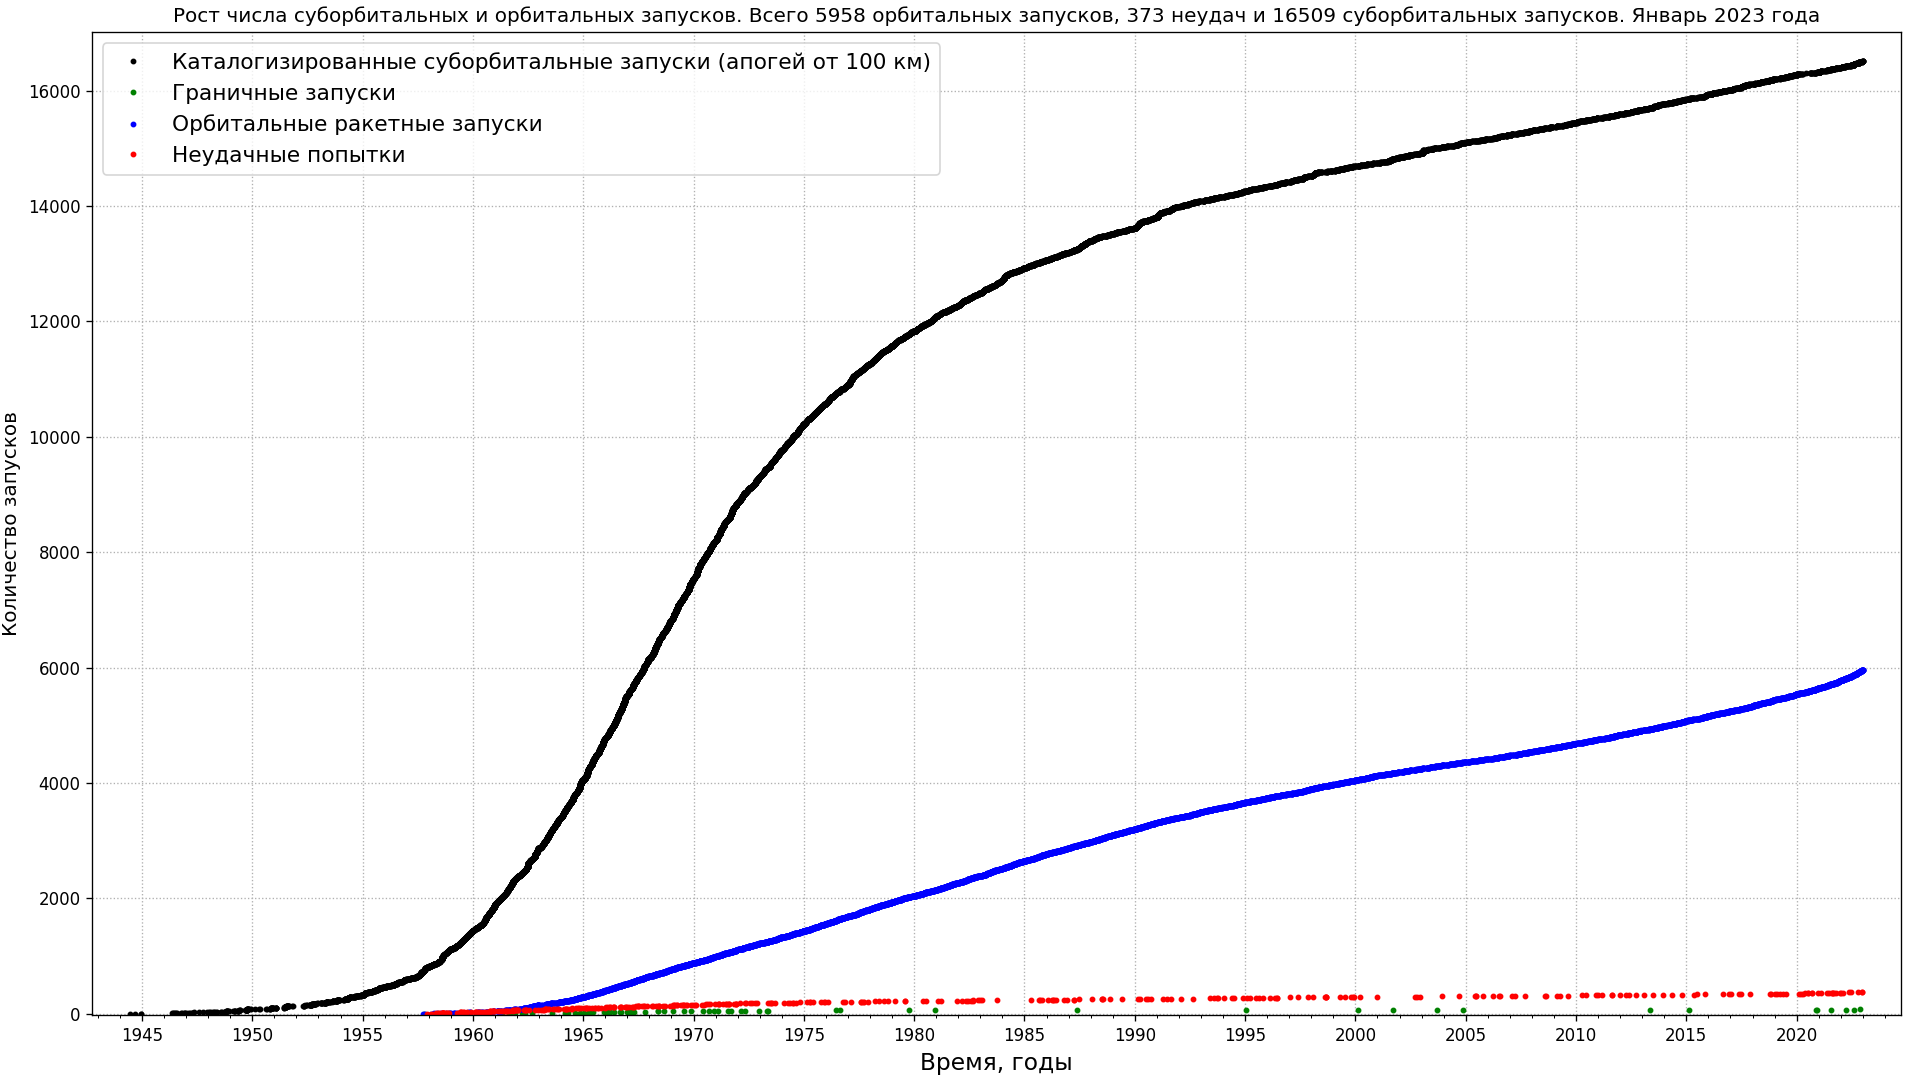
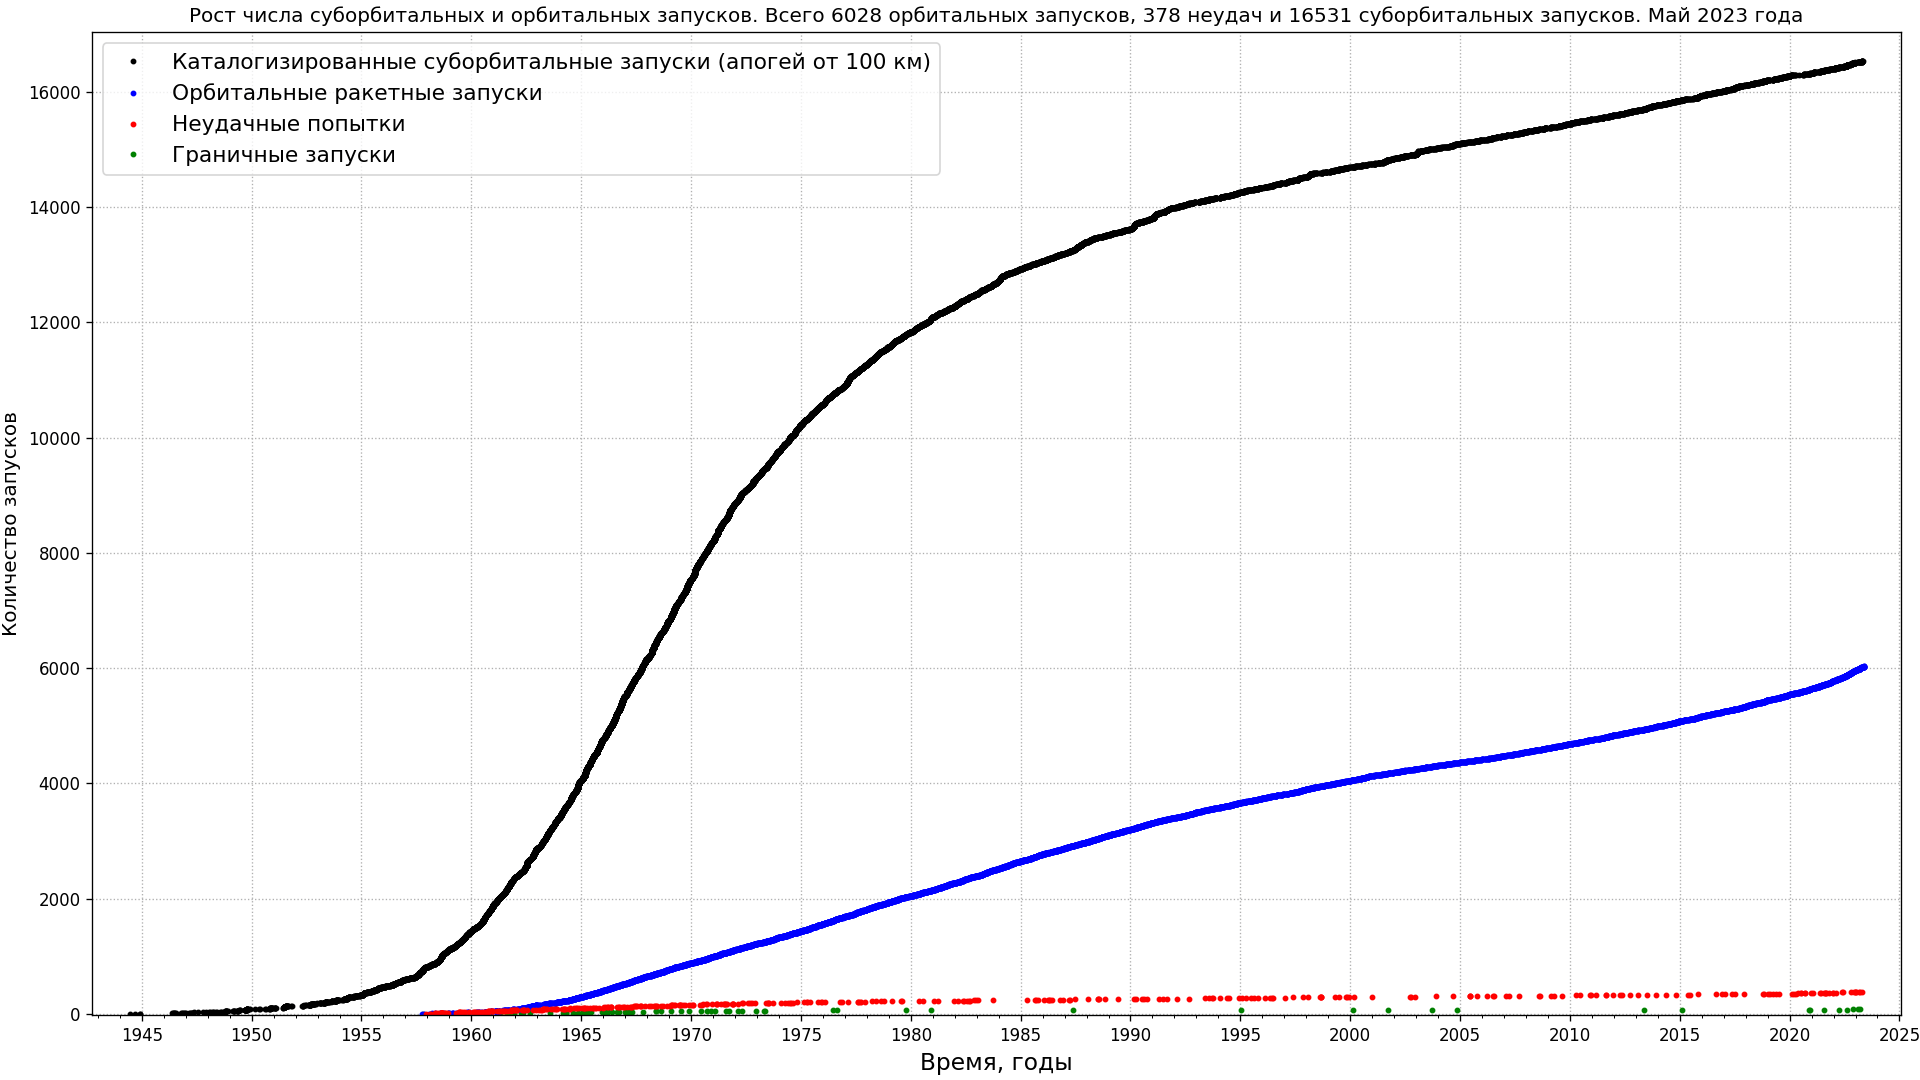
updated script and rocket launches plots

diff --git a/src/astrodata/launches/plot_launches_orb_suborb_graph.py b/src/astrodata/launches/plot_launches_orb_suborb_graph.py
@@ -89,19 +89,22 @@ DATA_URL = BASE_URL + "O.html"
 data = get_table(DATA_URL)[1:]
 dates, nums = get_data_array(data)
 print("Orbital launches:", len(dates))
-
 DATA_URL = BASE_URL + "F.html"
 data = get_table(DATA_URL)[1:]
 dates_fail, nums_fail = get_data_array(data)
 print("Launches failed:", len(dates_fail))
-
 DATA_URL = BASE_URL + "U.html"
 data = get_table(DATA_URL)[1:]
 dates_marg, nums_marg = get_data_array(data)
 print("Marginal launches:", len(dates_marg))
 
-SUBORB = True
+SUBORB = False
+DEEP = True
+
 if SUBORB:
+    FILE_EXT = 'png'
+    MS = 5
+    L_ORDER = [3, 1, 2, 0]
     SUBORB_POSTFIX = "-suborb-100km"
     DATA_URL = BASE_URL + "S.html" # DATA_URL = "S.html"
     suborb_data = get_table(DATA_URL, local=False)[1:] # local=True
@@ -131,14 +134,16 @@ if SUBORB:
     print(f"No apogee altitude data for {no_altitude} entries, {qm} questioned")
     print("Suborbital launches:", len(so_dates))
 
-DEEP = True
 if DEEP:
+    FILE_EXT = 'svg'
+    MS = 3
+    L_ORDER = [1, 2, 3, 0]
+    DEEP_POSTFIX = "-deep"
     DATA_URL = "https://planet4589.org/space/gcat/data/cat/deepcat.html"
     datt = get_table(DATA_URL)[1:]
     dates_deep = get_data_array_deep(datt)
     dates_only, names, nums_only = [], [], []
     unique_dtes = {}
-    # DEEP_POSTFIX = "-deep"
 
     for data, name, satnum in dates_deep:
         if data not in unique_dtes:
@@ -152,8 +157,8 @@ if DEEP:
     SAVE_LIST = False
     if SAVE_LIST:
         with open('deepcat.txt', 'w', encoding='utf-8') as f:
-            for dat in unique_dtes:
-                print(str(dat.date()), unique_dtes[dat], file=f)
+            for dat, space_objects_lst in unique_dtes.items():
+                print(str(dat.date()), space_objects_lst, file=f)
 
     dates_deep = list(unique_dtes.keys())
     nums_deep = range(1, len(dates_deep) + 1)
@@ -166,38 +171,35 @@ years = mdates.YearLocator(5)
 oneyear = mdates.YearLocator()
 ax.xaxis.set_major_locator(years)
 ax.xaxis.set_minor_locator(oneyear)
-
-if SUBORB:
-    plt.plot(so_dates, so_nums, '.k',
-    label='Каталогизированные суборбитальные запуски (апогей от 100 км)', ms=5)
-plt.plot(dates_marg, nums_marg, '.g', label='Граничные запуски', ms=5) #ms=5
-# plt.plot(dates_deep, nums_deep, '.k', label='Запуски в глубокий космос', ms=5)
-plt.plot(dates, nums, '.b', label='Орбитальные ракетные запуски', ms=5) #ms=5
-plt.plot(dates_fail, nums_fail, '.r', label='Неудачные попытки', ms=5) #ms=5
-
 tdlt = timedelta(days=630)
 locale.setlocale(locale.LC_ALL, 'ru_RU')
 today = datetime.now()
 MONTH, YEAR = today.strftime("%B"), today.year
 
+plt.plot(dates_marg, nums_marg, '.g', label='Граничные запуски', ms=MS) #ms=2
+plt.plot(dates, nums, '.b', label='Орбитальные ракетные запуски', ms=MS)
+plt.plot(dates_fail, nums_fail, '.r', label='Неудачные попытки', ms=MS)
 if SUBORB:
+    plt.plot(so_dates, so_nums, '.k',
+    label='Каталогизированные суборбитальные запуски (апогей от 100 км)', ms=5)
     plt.xlim(so_dates[0]-tdlt, so_dates[-1]+tdlt)
     plt.ylim(-25, so_nums[-1]+500)
-else:
+    plt.title(f'Рост числа суборбитальных и орбитальных запусков. Всего {len(dates)} ' + \
+    f'орбитальных запусков, {len(nums_fail)} неудач и {len(so_nums)} суборбитальных запусков. {MONTH} {YEAR} года')
+if DEEP:
+    plt.plot(dates_deep, nums_deep, '.k', label='Запуски в глубокий космос', ms=6)
     plt.xlim(dates[0]-tdlt, dates[-1]+tdlt) #+5*tdlt
     plt.ylim(-5, nums_deep[-1]+190)
-plt.legend(fontsize=13)
+    plt.title(f'Рост числа запусков в глубокий космос. Всего {len(dates)} ' + \
+    f'орбитальных запусков, {len(nums_fail)} неудач, {len(nums_deep)} запусков в глубокий космос. {MONTH} {YEAR} года')
 
-plt.title(f'Рост числа запусков в глубокий космос. Всего {len(dates)} ' + \
-f'орбитальных запусков, {len(nums_fail)} неудач, {len(nums_deep)} запусков в глубокий космос. {MONTH} {YEAR} года')
-plt.title(f'Рост числа суборбитальных и орбитальных запусков. Всего {len(dates)} ' + \
-f'орбитальных запусков, {len(nums_fail)} неудач и {len(so_nums)} суборбитальных запусков. {MONTH} {YEAR} года')
+handles, labels = plt.gca().get_legend_handles_labels()
+plt.legend([handles[idx] for idx in L_ORDER],[labels[idx] for idx in L_ORDER], fontsize=13)
 plt.xlabel('Время, годы', fontsize=14)
 plt.ylabel('Количество запусков', fontsize=12)
 plt.grid(linestyle='dotted')
 
-FILENAME = f'launches-orb{DEEP_POSTFIX}{SUBORB_POSTFIX}z'
-FILE_EXT = 'png'
+FILENAME = f'launches-orb{DEEP_POSTFIX}{SUBORB_POSTFIX}'
 plots_dir = os.path.join(os.pardir, os.pardir, os.pardir, 'plots', 'launches')
 tmp_pth = os.path.join(plots_dir, FILENAME+'_.'+FILE_EXT)
 pth = os.path.join(plots_dir, FILENAME+'.'+FILE_EXT)
